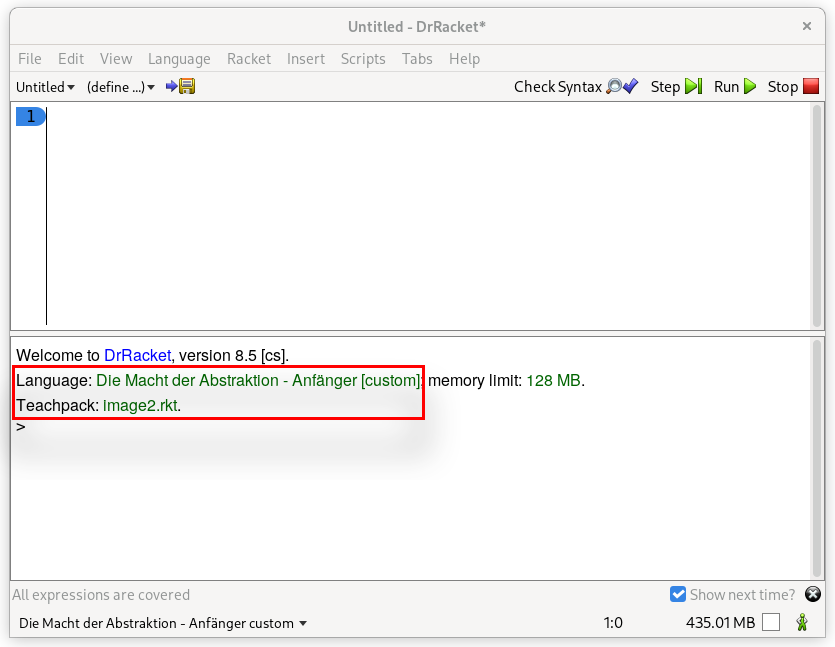
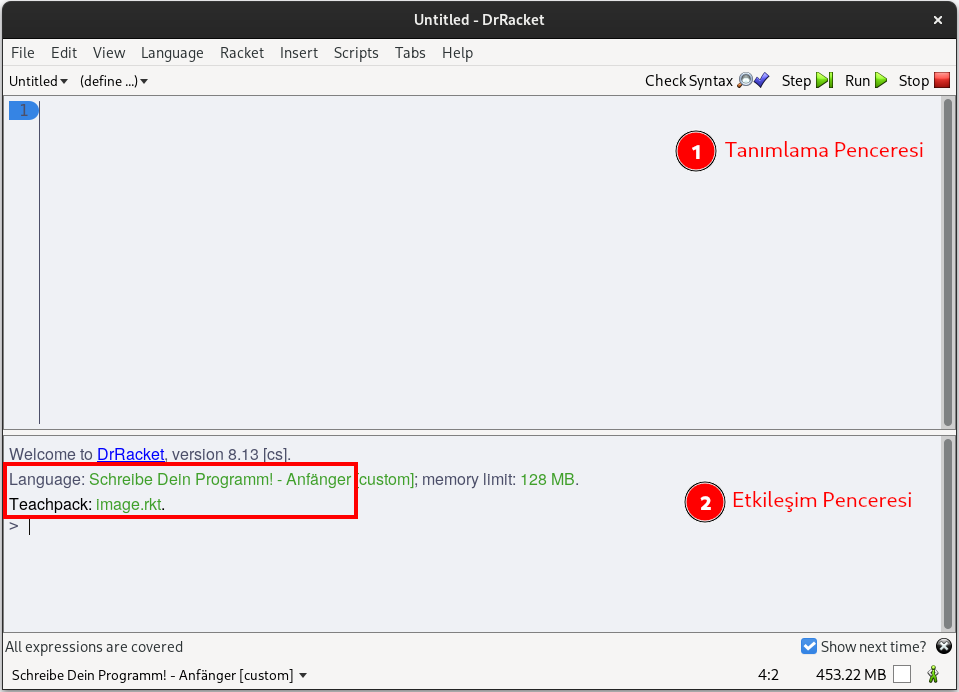
feat: revisit chapter 1 notes and homework

Changed region(s): [[0.0, 0.0, 1.0, 1.0]]

diff --git a/src/chapter-1/notes.md b/src/chapter-1/notes.md
@@ -23,15 +23,15 @@ Bu ayarı yaptıktan sonra DrRacket programını yeniden başlatmanız gerekmekt
 DrRacket, programlamaya giriş eğitimini kolaylaştırmak için bizlere yardımcı diller ve eğitim paketleri sunar. Şimdi bu ayarları yapalım:
 
 ```
-Language > Choose Language > Die Macht der Abstraktion - Anfänger
-Language > Add Teachpack > Image2.ss
+Language > Choose Language > Schreibe Dein Programm - Anfänger
+Language > Add Teachpack > Image.rkt
 ```
 
 Dil ve eğitim paketi seçtikten sonra `Run` tuşuna basarak yaptığımız değişiklikleri kullanıma alalım.
 
 ![Dil ve Eğitim Paketi Ayarları](drracket_lang_teachpack.png) 
 
-DrRacket 2 ayrı pencereden oluşur. Bunlar `Definition Window` (Tanımlama Penceresi) ve `Interaktion Window` (Etkileşim Penceresi) olarak adlandırılır.
+DrRacket iki ayrı pencereden oluşur. Bunlar `Tanımlama Penceresi` (Definition Window) ve `Etkileşim Penceresi` (Interaktion Window) olarak adlandırılır.
 
 Etkileşim penceresini kullanarak Racket dilini tanımaya başlayalım.
 
@@ -135,7 +135,7 @@ Racket'da bulabileceğiniz bir başka değer ise `image` (Resim). Aşağıdaki i
 | &#x2730; | Resimler | image |
 
 
-String turunu kullanarak da hesaplamalar yapabiliriz:
+`String` türünden değerler kullanarak da hesaplamalar yapabiliriz:
 
 ```racket
 (string-append "Merhaba" "Fatih")
@@ -144,14 +144,14 @@ String turunu kullanarak da hesaplamalar yapabiliriz:
 (string->number "42")
 ```
 
-Ya da resim kullanarak:
+Ya da `image` (resim) kullanarak:
 
 ```racket
 (circle 20 "solid" "red")
 (rectangle 100 50 "outline" "blue")
 (star 50 "solid" "red")
 (above (circle 20 "solid" "red") (rectangle 100 50 "solid" "blue"))
-(överlay (circle 30 "solid" "red") (rectangle 200 100 "outline" "black"))
+(overlay (circle 30 "solid" "red") (rectangle 200 100 "outline" "black"))
 ```
 
 Bknz: [circle](../misc/documentation.md#circle), [rectangle](../misc/documentation.md#rectangle), [above](../misc/documentation.md#above), [overlay](../misc/documentation.md#overlay), [overlay/xy](../misc/documentation.md#overlayxy)

diff --git a/src/chapter-1/homework.md b/src/chapter-1/homework.md
@@ -4,6 +4,7 @@
    1. 42 * 6
    2. 23 + (42 / 7)
    3. (12 * 5) + (4 * (22 + 17))
+   4. 34 - 14 * 2 + 12 / 4
 
 2. Racket dili tarafından tanımlanmış [circle](../misc/documentation.md#circle), [rectangle](../misc/documentation.md#rectangle), [star](../misc/documentation.md#star), [overlay](../misc/documentation.md#overlay) ve [overlay/xy](../misc/documentation.md#overlayxy) gibi fonksiyonları kullanarak Türk Bayrağımızı çizebilir misiniz?
 
